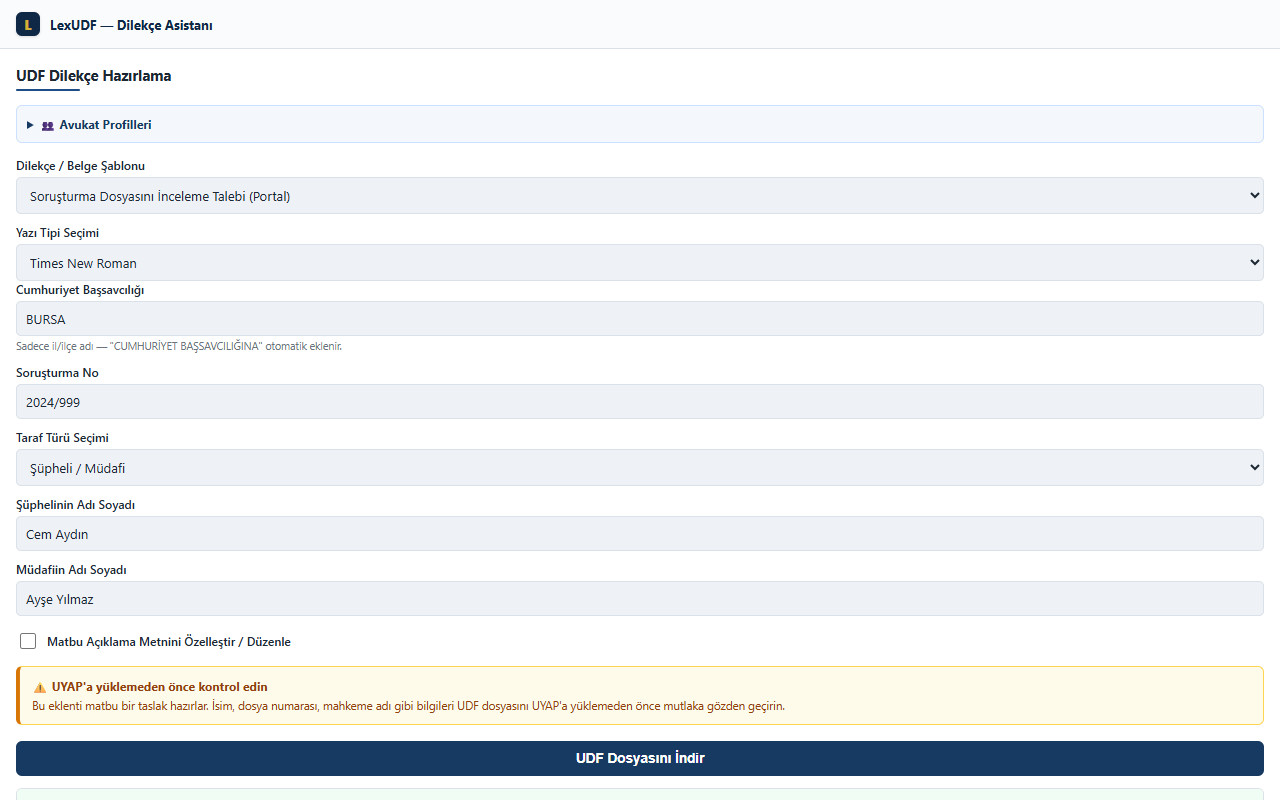
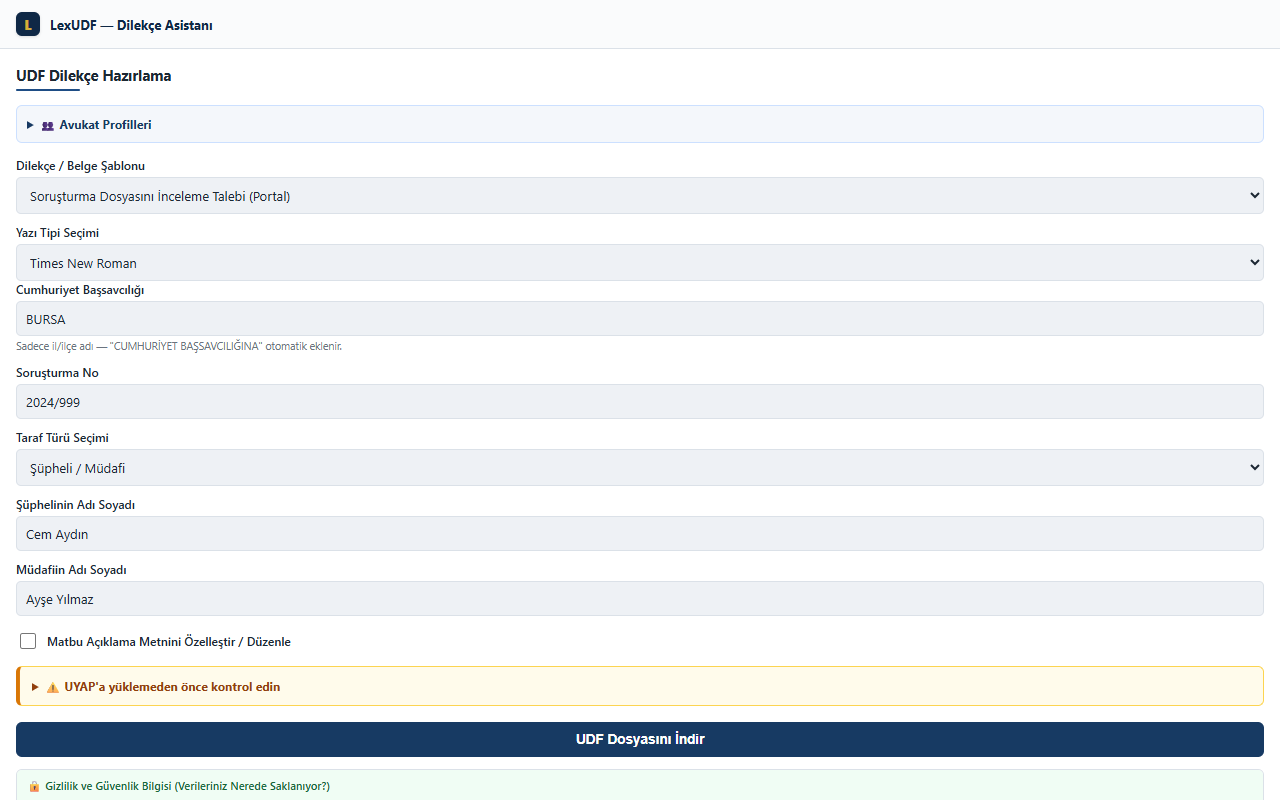
UYAP uyarisi acilir-kapanir yapildi, magaza gorselleri guncellendi

Changed region(s): [[0.0, 0.8438, 1.0, 1.0]]

diff --git a/popup.html b/popup.html
@@ -165,10 +165,9 @@
   }
   .site-footer .footer-credit strong { color: var(--navy); }
 
-  /* UYAP öncesi kontrol uyarısı */
+  /* UYAP öncesi kontrol uyarısı (açılır-kapanır) */
   .uyap-warning {
     margin-top: 14px;
-    padding: 10px 12px;
     background: #fffbeb;
     border: 1px solid #fcd34d;
     border-left: 4px solid #d97706;
@@ -176,8 +175,23 @@
     font-size: 11.5px;
     color: #92400e;
     line-height: 1.5;
+    overflow: hidden;
   }
-  .uyap-warning strong { display: block; margin-bottom: 2px; font-size: 12px; }
+  .uyap-warning summary {
+    padding: 10px 12px;
+    font-size: 12px;
+    font-weight: 700;
+    cursor: pointer;
+    user-select: none;
+    outline: none;
+  }
+  .uyap-warning summary:hover { background: #fef3c7; }
+  .uyap-warning .uyap-content {
+    padding: 0 12px 10px 12px;
+    border-top: 1px dashed #fcd34d;
+    margin-top: 2px;
+    padding-top: 8px;
+  }
 </style>
 </head>
 <body>
@@ -403,11 +417,13 @@
       <div class="hint" id="ozelPlaceholderHint" style="display:none;"></div>
     </div>
 
-    <div class="uyap-warning">
-      <strong>⚠ UYAP'a yüklemeden önce kontrol edin</strong>
-      Bu eklenti matbu bir taslak hazırlar. İsim, dosya numarası, mahkeme adı gibi bilgileri
-      UDF dosyasını UYAP'a yüklemeden önce mutlaka gözden geçirin.
-    </div>
+    <details class="uyap-warning">
+      <summary>⚠ UYAP'a yüklemeden önce kontrol edin</summary>
+      <div class="uyap-content">
+        Bu eklenti matbu bir taslak hazırlar. İsim, dosya numarası, mahkeme adı gibi bilgileri
+        UDF dosyasını UYAP'a yüklemeden önce mutlaka gözden geçirin.
+      </div>
+    </details>
 
     <button id="go">UDF Dosyasını İndir</button>
     <div class="msg" id="msg"></div>
